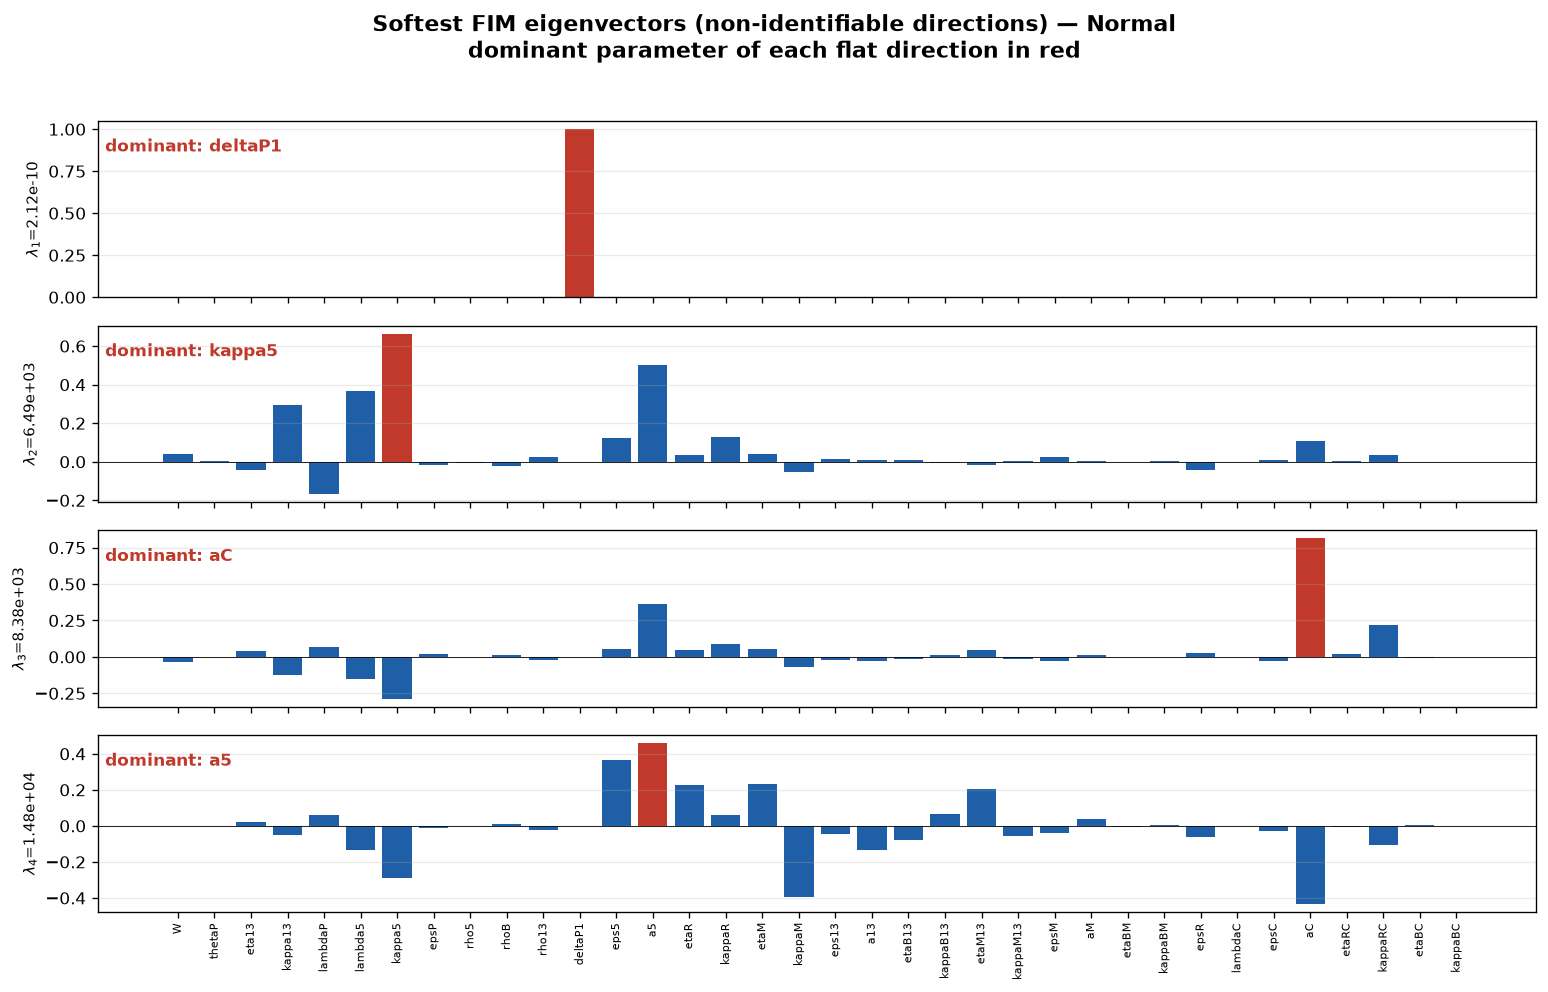
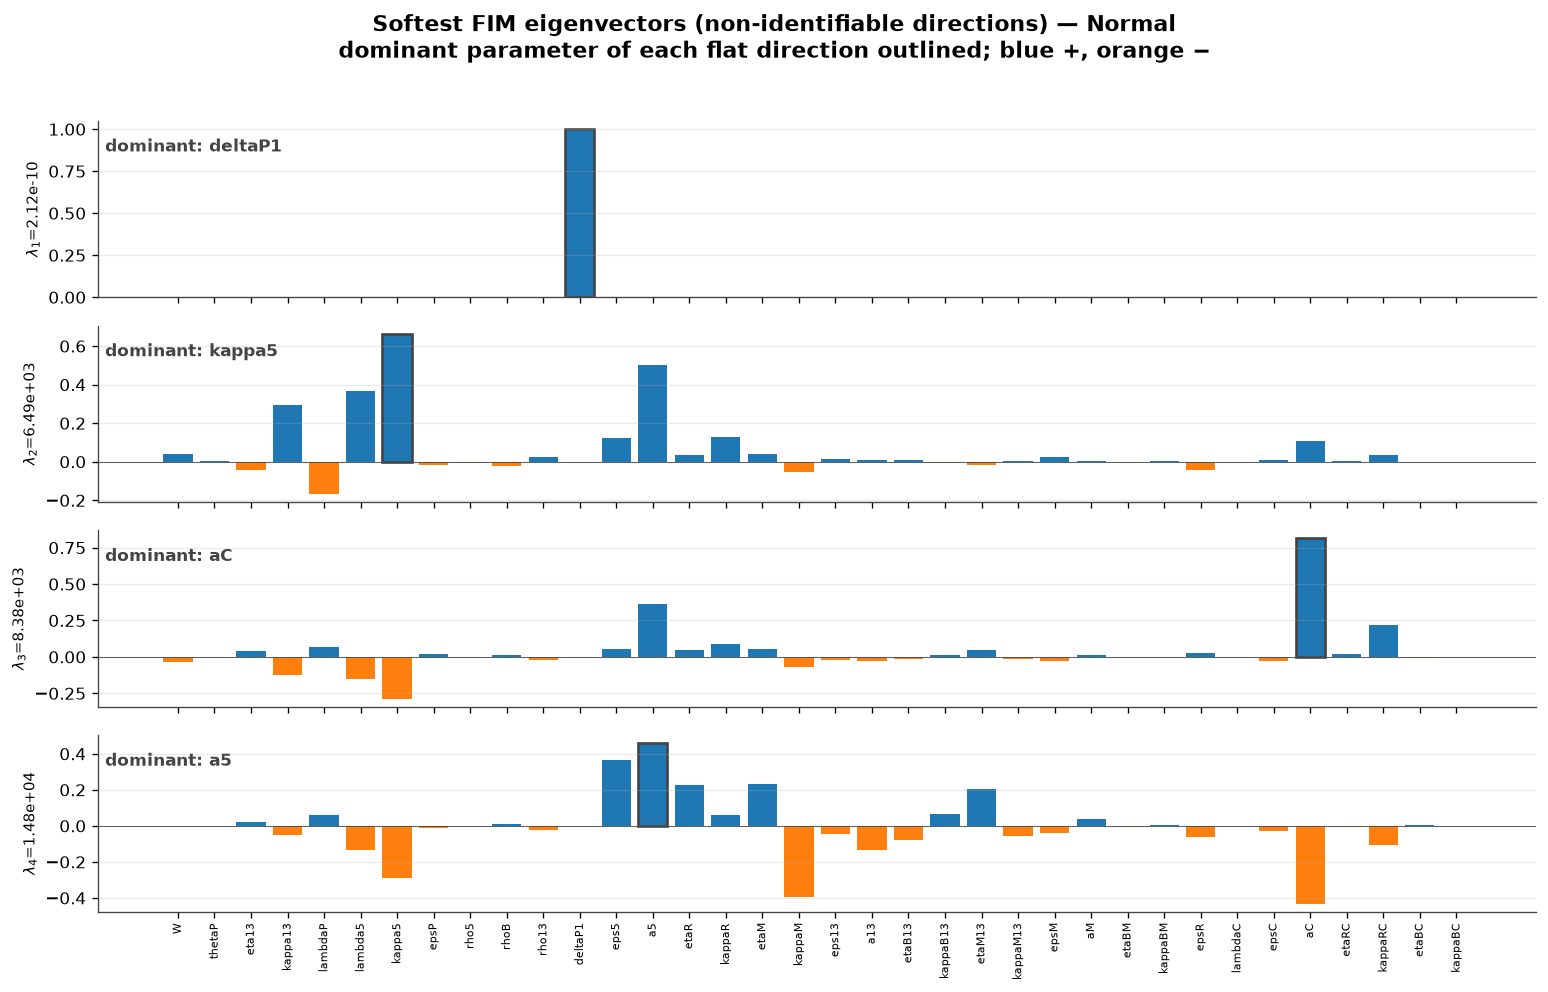
PINN-fisher-matrix: recolor identifiability figures to SA-big palette
Replace ad-hoc green/orange/red with the professor's SA palette (blue IDENT, grey WEAK, orange NON-IDENT); eigenvector bars now encode sign (blue +, orange -) with the driver outlined. Regenerated all regime + cross-regime PNGs.

diff --git a/PINN-fisher-matrix/fisher_matrix.py b/PINN-fisher-matrix/fisher_matrix.py
@@ -50,6 +50,19 @@ SIGMA   = 0.002     # measurement noise std (matches recover_odefit / profiling)
 REL_STEP = 1e-3     # central-difference relative perturbation for sensitivities
 K = len(UNKNOWN)
 
+# --- sensitivity-analysis (SA-big) palette — match the professor's SA plots ---
+# defined once in SA-big/run_sa.py & synthesize.py; reused here so the
+# identifiability figures read as the same visual system.
+SA_BLUE, SA_ORANGE, SA_GREY, SA_DARK = "#1f77b4", "#ff7f0e", "#bbbbbb", "#444444"
+# 3-way verdict on the 2-tone SA palette: good=blue, middling=grey, bad=orange.
+VERDICT_COLOR = {"IDENT": SA_BLUE, "WEAK": SA_GREY, "NON-IDENT": SA_ORANGE}
+REGIME_COLORS = [SA_BLUE, SA_ORANGE, "#888888", SA_DARK]
+plt.rcParams.update({
+    "figure.facecolor": "white", "axes.facecolor": "white",
+    "savefig.facecolor": "white", "axes.spines.top": False,
+    "axes.spines.right": False, "axes.edgecolor": "#444444",
+})
+
 
 def solve(p, t_eval):
     sol = solve_ivp(lambda t, y: _ode_rhs(t, y, p), (0.0, T), Y0,
@@ -216,7 +229,7 @@ def plot_regime(regime, safe, FIM, R, evals, part_null, part_soft, verdict, out_
     # (c) eigenvalue spectrum (sloppiness)
     axc = fig.add_subplot(gs[1, 0])
     ev = np.clip(evals[::-1], 1e-30, None)               # descending
-    axc.semilogy(range(1, len(ev) + 1), ev, "o-", color="#1f5fa8", ms=5)
+    axc.semilogy(range(1, len(ev) + 1), ev, "o-", color=SA_BLUE, ms=5)
     axc.axhline(ev[0] * 1e-6, ls="--", color="grey", lw=1)
     axc.text(len(ev), ev[0] * 1e-6, "  cond$^{-1}\\!=10^{6}$ floor",
              va="center", fontsize=9, color="grey")
@@ -230,8 +243,7 @@ def plot_regime(regime, safe, FIM, R, evals, part_null, part_soft, verdict, out_
     axd = fig.add_subplot(gs[1, 1])
     score = part_null + 0.01 * part_soft
     order = np.argsort(-score)                           # worst-constrained first
-    cmap = {"IDENT": "#2c7d3f", "WEAK": "#e08a1e", "NON-IDENT": "#c0392b"}
-    cols = [cmap[v] for v in verdict[order]]
+    cols = [VERDICT_COLOR[v] for v in verdict[order]]
     y = np.arange(K)
     axd.barh(y, part_null[order], color=cols, label="null ($\\lambda<1$)")
     axd.barh(y, part_soft[order], left=part_null[order], color=cols, alpha=0.35,
@@ -239,11 +251,11 @@ def plot_regime(regime, safe, FIM, R, evals, part_null, part_soft, verdict, out_
     axd.set_yticks(y)
     axd.set_yticklabels([labels[i] for i in order], fontsize=6.5)
     axd.set_xlim(0, 1.02)
-    axd.axvline(0.5, ls="--", color="#c0392b", lw=1)
+    axd.axvline(0.5, ls="--", color=SA_DARK, lw=1)
     axd.set_xlabel("participation in flat subspace  "
                    "$\\sqrt{\\sum_{k\\in\\mathrm{null}} V_{jk}^2}$")
     axd.set_title("(d) Non-identifiable-subspace participation\n"
-                  "green IDENT · orange WEAK · red NON-IDENT",
+                  "blue IDENT · grey WEAK · orange NON-IDENT",
                   fontsize=11, fontweight="bold")
     axd.invert_yaxis()
     axd.grid(alpha=0.3, axis="x")
@@ -268,17 +280,20 @@ def plot_soft_eigvecs(regime, safe, evals, evecs, out_dir, n=4):
         v = evecs[:, k]
         v = v * np.sign(v[np.argmax(np.abs(v))])         # sign convention
         dom = np.argmax(np.abs(v))
-        cols = ["#c0392b" if i == dom else "#1f5fa8" for i in x]
-        ax.bar(x, v, color=cols)
-        ax.axhline(0, color="k", lw=0.5)
+        cols = [SA_BLUE if v[i] >= 0 else SA_ORANGE for i in x]  # sign, SA convention
+        bars = ax.bar(x, v, color=cols)
+        bars[dom].set_edgecolor(SA_DARK)                         # outline the driver
+        bars[dom].set_linewidth(1.6)
+        ax.axhline(0, color=SA_DARK, lw=0.5)
         ax.set_ylabel(f"$\\lambda_{{{k+1}}}$={evals[k]:.2e}", fontsize=9)
         ax.text(0.005, 0.9, f"dominant: {UNKNOWN[dom]}", transform=ax.transAxes,
-                va="top", fontsize=10, fontweight="bold", color="#c0392b")
+                va="top", fontsize=10, fontweight="bold", color=SA_DARK)
         ax.grid(alpha=0.25, axis="y")
     axes[-1].set_xticks(x)
     axes[-1].set_xticklabels(UNKNOWN, rotation=90, fontsize=6.5)
     fig.suptitle(f"Softest FIM eigenvectors (non-identifiable directions) — "
-                 f"{regime}\ndominant parameter of each flat direction in red",
+                 f"{regime}\ndominant parameter of each flat direction outlined; "
+                 f"blue +, orange −",
                  fontsize=13, fontweight="bold")
     fig.tight_layout(rect=(0, 0, 1, 0.96))
     fig.savefig(os.path.join(out_dir, f"{safe}_soft_eigvecs.png"),
@@ -295,7 +310,7 @@ def _tick(ax, labels):
 
 def plot_cross_regime(results, out_dir):
     fig, ax = plt.subplots(figsize=(9, 6))
-    colours = ["#1f5fa8", "#2c7d3f", "#e08a1e", "#c0392b"]
+    colours = REGIME_COLORS
     for res, col in zip(results, colours):
         ev = np.clip(res["evals"][::-1], 1e-30, None)
         ax.semilogy(range(1, len(ev) + 1), ev, "o-", ms=4, color=col,
